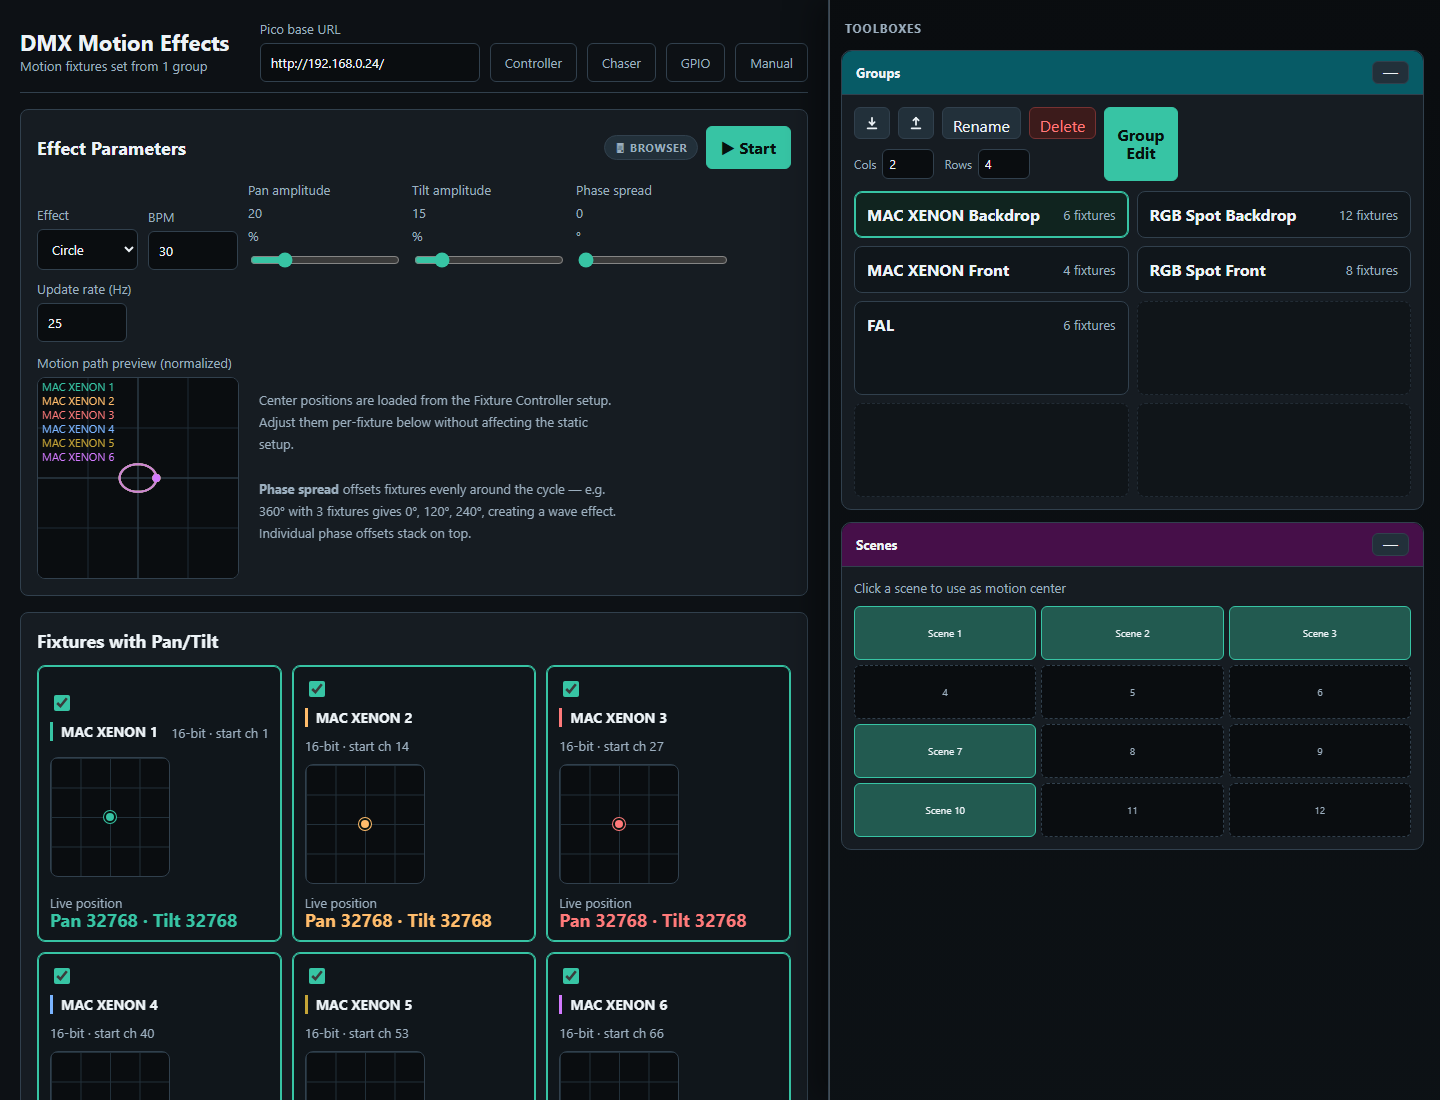
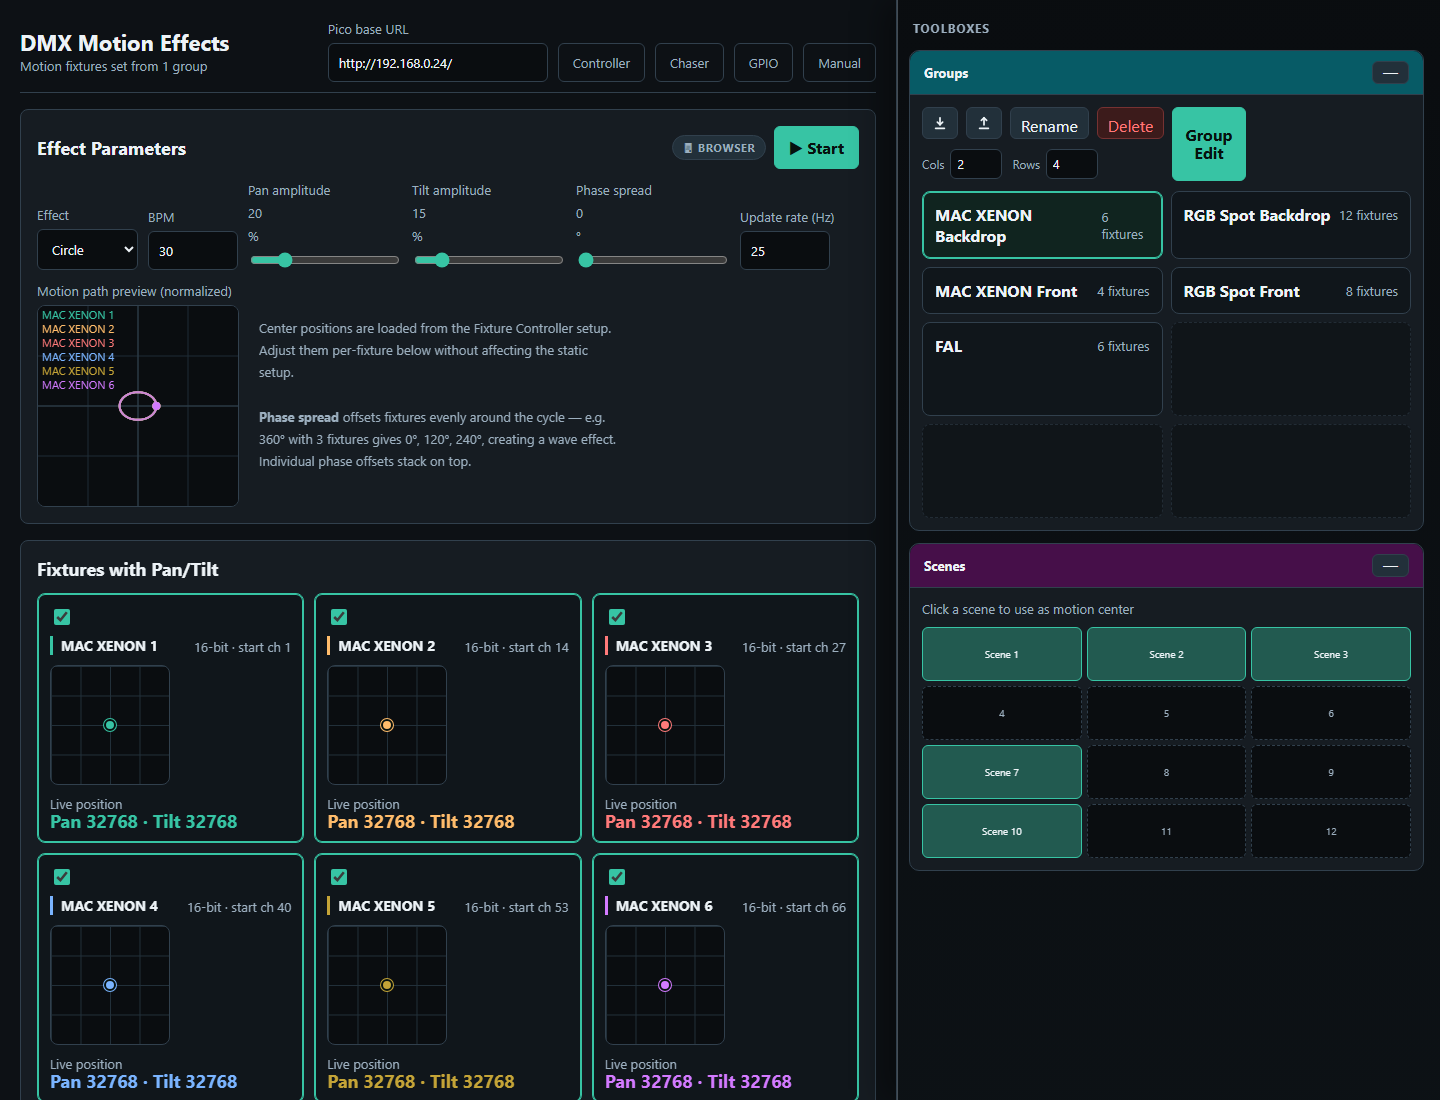
mc

diff --git a/docs/user-manual-print.html b/docs/user-manual-print.html
@@ -226,7 +226,7 @@ strong { color: #ffffff; }
 <li>Dimmer levels</li>
 <li>Fan Out results that you want to reuse as an overlay</li>
 </ul>
-<p>The <strong>Icon</strong> button opens the palette visual editor for the current scope. For <strong>Color</strong> palettes it stores a small color swatch. For <strong>Beam / Gobo</strong> palettes it stores a drawn or uploaded icon, using the same idea as the wheel-option editor in Add / Edit Control. These visuals are saved inside the palette JSON and shown directly in the palette slot grid.</p>
+<p>The <strong>Icon</strong> button opens the palette visual editor for the current scope. For <strong>Color</strong> palettes it stores a small color swatch. For <strong>Position</strong> and <strong>Beam / Gobo</strong> palettes it stores a drawn or uploaded icon, using the same idea as the wheel-option editor in Add / Edit Control. These visuals are saved inside the palette JSON and shown directly in the palette slot grid.</p>
 <p>Palette save rules:</p>
 <ul>
 <li>If Fan Out is active, the palette saves only the Fan Out affected controls.</li>

diff --git a/docs/user-manual.html b/docs/user-manual.html
@@ -226,7 +226,7 @@ strong { color: #ffffff; }
 <li>Dimmer levels</li>
 <li>Fan Out results that you want to reuse as an overlay</li>
 </ul>
-<p>The <strong>Icon</strong> button opens the palette visual editor for the current scope. For <strong>Color</strong> palettes it stores a small color swatch. For <strong>Beam / Gobo</strong> palettes it stores a drawn or uploaded icon, using the same idea as the wheel-option editor in Add / Edit Control. These visuals are saved inside the palette JSON and shown directly in the palette slot grid.</p>
+<p>The <strong>Icon</strong> button opens the palette visual editor for the current scope. For <strong>Color</strong> palettes it stores a small color swatch. For <strong>Position</strong> and <strong>Beam / Gobo</strong> palettes it stores a drawn or uploaded icon, using the same idea as the wheel-option editor in Add / Edit Control. These visuals are saved inside the palette JSON and shown directly in the palette slot grid.</p>
 <p>Palette save rules:</p>
 <ul>
 <li>If Fan Out is active, the palette saves only the Fan Out affected controls.</li>